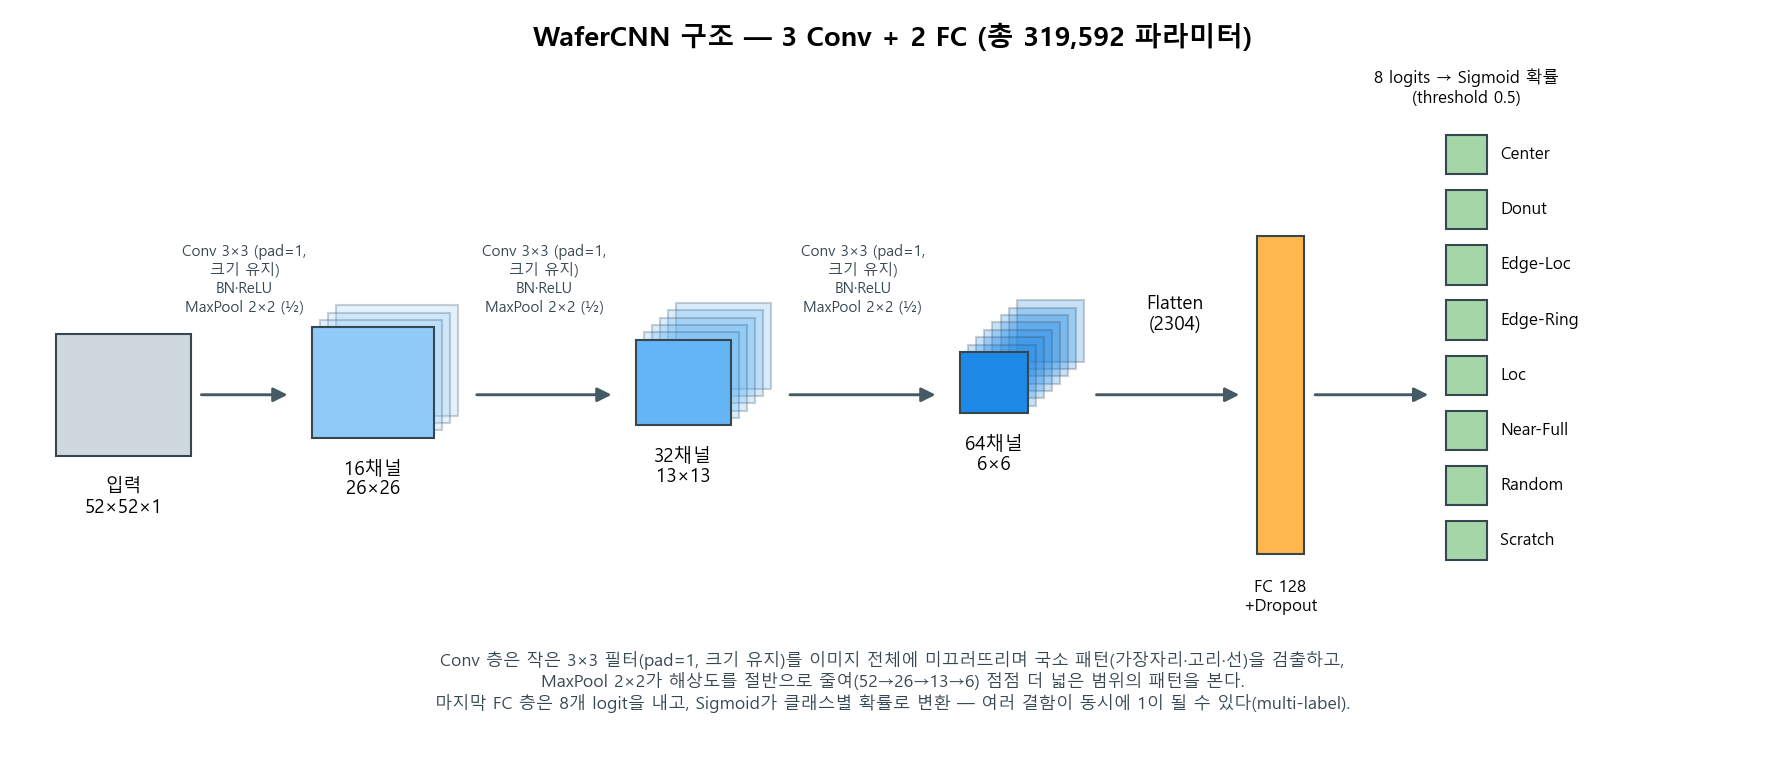
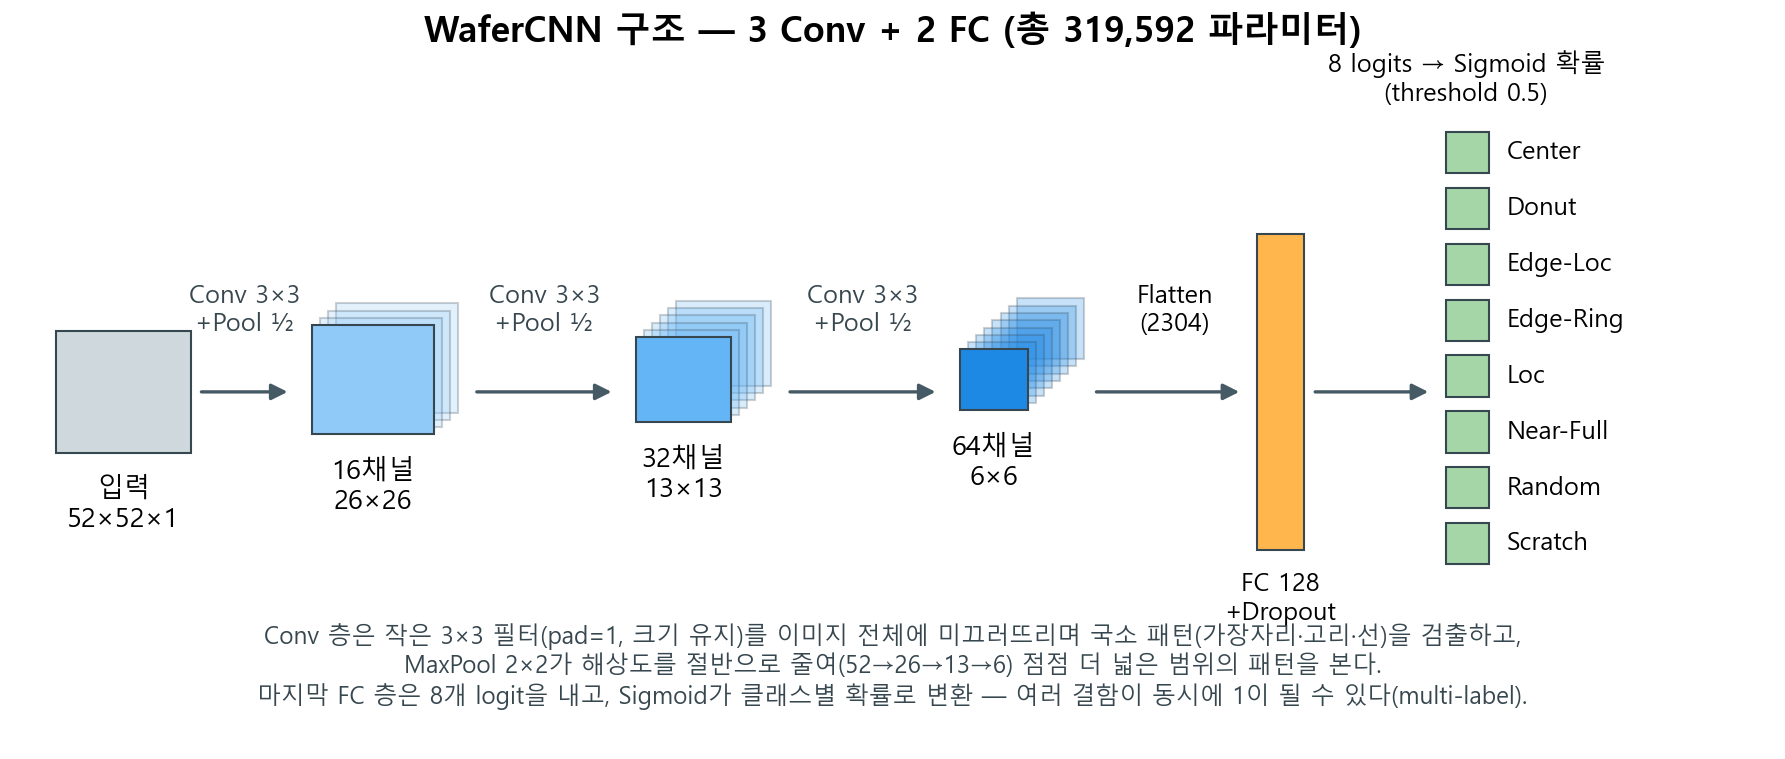
캡스톤 최종 작업본 반영: CNN 구조 그림 가독성 개선 + 졸업논문 최종본 교체
- code/make_explain_figures.py: CNN 아키텍처 그림 글자/화살표 크기 확대, 라벨 간소화
- figures/cnn_architecture.png, pipeline_overview.png: 위 변경으로 재생성
- 졸업논문: 최종 제출본(원본.hwpx, PDF)으로 교체
- 이어서_작업_졸업논문_양식.md: 작업 노트 갱신

diff --git a/code/make_explain_figures.py b/code/make_explain_figures.py
@@ -117,7 +117,7 @@ def _block(ax, x, y, w, h, depth_n, color, label):
         a = 1.0 if k == 0 else 0.25
         ax.add_patch(Rectangle((x + k * off, y + k * off), w, h,
                                facecolor=c, edgecolor="#37474f", lw=1.0, alpha=a, zorder=10 - k))
-    ax.text(x + w / 2, y - 0.18, label, ha="center", va="top", fontsize=9)
+    ax.text(x + w / 2, y - 0.20, label, ha="center", va="top", fontsize=13)
 
 
 def fig_cnn_architecture():
@@ -137,42 +137,43 @@ def fig_cnn_architecture():
         y = 3 - sz / 2
         _block(ax, x, y, sz, sz, dep, col, lab)
         arr = FancyArrowPatch((prev_x + 0.05, 2.9), (x - 0.15, 2.9),
-                              arrowstyle="-|>", mutation_scale=14, color="#455a64", lw=1.4)
+                              arrowstyle="-|>", mutation_scale=16, color="#455a64", lw=1.6)
         ax.add_patch(arr)
-        ax.text((prev_x + x) / 2 - 0.05, 3.55,
-                "Conv 3×3 (pad=1,\n크기 유지)\nBN·ReLU\nMaxPool 2×2 (½)", ha="center",
-                va="bottom", fontsize=7.2, color="#37474f")
+        # 반복되는 Conv 동작은 화살표마다 짧게만 표기(상세는 하단 캡션)
+        ax.text((prev_x + x) / 2 - 0.05, 3.35,
+                "Conv 3×3\n+Pool ½", ha="center",
+                va="bottom", fontsize=12, color="#37474f")
         prev_x = x + sz + dep * 0.06
 
     # FC 부분
     fcx = 9.2
     arr = FancyArrowPatch((prev_x, 2.9), (fcx - 0.1, 2.9), arrowstyle="-|>",
-                          mutation_scale=14, color="#455a64", lw=1.4)
+                          mutation_scale=16, color="#455a64", lw=1.6)
     ax.add_patch(arr)
-    ax.text((prev_x + fcx) / 2, 3.4, "Flatten\n(2304)", ha="center", va="bottom", fontsize=9)
+    ax.text((prev_x + fcx) / 2, 3.35, "Flatten\n(2304)", ha="center", va="bottom", fontsize=12)
     # FC128
     ax.add_patch(Rectangle((fcx, 1.6), 0.35, 2.6, facecolor="#ffb74d", edgecolor="#37474f"))
-    ax.text(fcx + 0.17, 1.4, "FC 128\n+Dropout", ha="center", va="top", fontsize=8)
+    ax.text(fcx + 0.17, 1.42, "FC 128\n+Dropout", ha="center", va="top", fontsize=12)
     # FC8 (출력)
     out_x = 10.6
     arr = FancyArrowPatch((fcx + 0.4, 2.9), (out_x - 0.1, 2.9), arrowstyle="-|>",
-                          mutation_scale=14, color="#455a64", lw=1.4)
+                          mutation_scale=16, color="#455a64", lw=1.6)
     ax.add_patch(arr)
     labels = CLASSES
     for j, cl in enumerate(labels):
-        yy = 4.7 - j * 0.45
-        ax.add_patch(Rectangle((out_x, yy), 0.3, 0.32, facecolor="#a5d6a7", edgecolor="#37474f"))
-        ax.text(out_x + 0.4, yy + 0.16, cl, ha="left", va="center", fontsize=8)
-    ax.text(out_x + 0.15, 5.25, "8 logits → Sigmoid 확률\n(threshold 0.5)", ha="center", va="bottom", fontsize=8)
+        yy = 4.7 - j * 0.46
+        ax.add_patch(Rectangle((out_x, yy), 0.32, 0.34, facecolor="#a5d6a7", edgecolor="#37474f"))
+        ax.text(out_x + 0.45, yy + 0.17, cl, ha="left", va="center", fontsize=12)
+    ax.text(out_x + 0.15, 5.25, "8 logits → Sigmoid 확률\n(threshold 0.5)", ha="center", va="bottom", fontsize=12)
 
-    ax.text(6.5, 5.75, "WaferCNN 구조 — 3 Conv + 2 FC (총 319,592 파라미터)",
-            ha="center", fontsize=13, weight="bold")
+    ax.text(6.5, 5.78, "WaferCNN 구조 — 3 Conv + 2 FC (총 319,592 파라미터)",
+            ha="center", fontsize=17, weight="bold")
     # conv 개념 캡션
-    ax.text(6.5, 0.30,
+    ax.text(6.5, 0.28,
             "Conv 층은 작은 3×3 필터(pad=1, 크기 유지)를 이미지 전체에 미끄러뜨리며 국소 패턴(가장자리·고리·선)을 검출하고,\n"
             "MaxPool 2×2가 해상도를 절반으로 줄여(52→26→13→6) 점점 더 넓은 범위의 패턴을 본다.\n"
             "마지막 FC 층은 8개 logit을 내고, Sigmoid가 클래스별 확률로 변환 — 여러 결함이 동시에 1이 될 수 있다(multi-label).",
-            ha="center", va="bottom", fontsize=8.3, color="#37474f")
+            ha="center", va="bottom", fontsize=11.5, color="#37474f")
     fig.tight_layout()
     out = os.path.join(FIG, "cnn_architecture.png")
     fig.savefig(out, dpi=150, bbox_inches="tight")
@@ -194,28 +195,28 @@ def fig_pipeline():
         (7.1, "④ 멤리스터 크로스바\n4종 소재 + 양자화\n+ 비이상성(노이즈·고착)", "#ffe0b2"),
         (9.4, "⑤ PIM 추론 평가\n(추론만 하드웨어)\nIdeal vs Realistic", "#c8e6c9"),
     ]
-    w, h, y = 2.0, 2.2, 1.3
+    w, h, y = 2.0, 2.2, 1.45
     centers = []
     for x, txt, col in boxes:
         ax.add_patch(FancyBboxPatch((x, y), w, h, boxstyle="round,pad=0.04,rounding_size=0.12",
                                     facecolor=col, edgecolor="#37474f", lw=1.2))
-        ax.text(x + w / 2, y + h / 2, txt, ha="center", va="center", fontsize=9.2)
+        ax.text(x + w / 2, y + h / 2, txt, ha="center", va="center", fontsize=12.5)
         centers.append(x + w)
     for i in range(len(boxes) - 1):
         x0 = boxes[i][0] + w
         x1 = boxes[i + 1][0]
         arr = FancyArrowPatch((x0 - 0.02, y + h / 2), (x1 + 0.02, y + h / 2),
-                              arrowstyle="-|>", mutation_scale=18, color="#455a64", lw=1.6)
+                              arrowstyle="-|>", mutation_scale=20, color="#455a64", lw=1.8)
         ax.add_patch(arr)
-    ax.text(6.0, 4.15, "연구 전체 흐름: 웨이퍼 결함 분류 CNN을 멤리스터 PIM 하드웨어로 옮길 때 소재별 성능 비교",
-            ha="center", fontsize=12, weight="bold")
-    ax.text(6.0, 0.72,
+    ax.text(6.0, 4.30, "연구 전체 흐름: 웨이퍼 결함 분류 CNN을 멤리스터 PIM 하드웨어로 옮길 때 소재별 성능 비교",
+            ha="center", fontsize=15, weight="bold")
+    ax.text(6.0, 0.78,
             "학습은 소프트웨어(FP32)에서 수행하고, 학습된 가중치를 멤리스터로 매핑해 추론 단계만 PIM 환경에서 평가한다.",
-            ha="center", va="center", fontsize=8.5, color="#546e7a")
-    ax.text(6.0, 0.38,
-            "핵심 질문: 4종 멤리스터 소재(Pt/HfOx/Ti, Ferroelectric, Metallic Nanowire, TaOx/Ta) 중 "
+            ha="center", va="center", fontsize=12, color="#546e7a")
+    ax.text(6.0, 0.34,
+            "핵심 질문: 4종 멤리스터 소재(Pt/HfOx/Ti, Ferroelectric, Metallic Nanowire, TaOx/Ta) 중\n"
             "어떤 것이 PIM 환경에서 분류 성능을 가장 잘 보존하는가?",
-            ha="center", va="center", fontsize=8.8, color="#37474f")
+            ha="center", va="center", fontsize=12.5, color="#37474f")
     fig.tight_layout()
     out = os.path.join(FIG, "pipeline_overview.png")
     fig.savefig(out, dpi=150, bbox_inches="tight")

diff --git a/이어서_작업_졸업논문_양식.md b/이어서_작업_졸업논문_양식.md
@@ -1,21 +1,37 @@
 # 졸업논문 양식 작업 — 이어서 하기 (핸드오프)
 
-> 다음 세션에서 이 파일을 통째로 주면 바로 이어서 작업 가능. (2026-05-21 기준)
+> 다음 세션에서 이 파일을 통째로 주면 바로 이어서 작업 가능. (2026-05-22 갱신)
 
 ## 0. 한 줄 요약
-캡스톤 논문(멤리스터 PIM 웨이퍼 결함 분류)을 **상명대 시스템반도체공학과 졸업논문 양식(B5)**에 맞춰 완성. **제출 가능 상태** (Codex+Gemini 둘 다 합격, 양식 준수 우수, 완성도 A−~A+).
+캡스톤 논문(멤리스터 PIM 웨이퍼 결함 분류)을 **상명대 시스템반도체공학과 졸업논문 양식(B5)**에 맞춰 완성. **제출 가능 상태** (Codex+Gemini 둘 다 합격, 양식 준수 우수, 완성도 A−~A+). 2026-05-22 교수님 피드백(그림 글자 작음) 반영 + 레이아웃 정리 완료, **19p**.
 
-## 1. ⭐ 최종 제출 파일
+## ★ 2026-05-22 작업 (그림 확대 + 레이아웃 수정) — 최신
+교수님 피드백 "그림2·3 글자가 작아 안 보임"에서 출발해 다음을 처리. **본문 텍스트·표 내용·수치·결론은 일절 변경 없음**(레이아웃/그림 표시만).
+1. **그림 글자 확대** — `code/make_explain_figures.py` 수정 후 그림2(`cnn_architecture.png`)·그림3(`pipeline_overview.png`) 재생성.
+   - 그림2: 화살표마다 3번 반복되던 4줄 작은 Conv 캡션 → `Conv 3×3 +Pool ½`로 간략화(상세는 표1·하단 설명문에 보존), 제목 13→17pt, 라벨·설명 8→12pt.
+   - 그림3: 박스 글자 9.2→12.5pt, 제목 12→15pt, 설명 8.5→12pt(긴 핵심질문 2줄).
+   - ⚠️ 그림2 종횡비는 옛 임베드(1785×765, 2.333)에 맞춰 figsize 5.2 유지(왜곡 방지). 그림3은 1785×674 동일.
+2. **hwpx에 그림 교체** — hwpx는 zip. `BinData/image2.png`(그림2)·`image3.png`(그림3)를 새 PNG로 교체. **mimetype은 첫 항목·Stored 유지, BinData PNG도 Stored(무압축)**. Python `zipfile`로 항목별 `compress_type` 보존하며 재패키징(`zip` 명령 없음).
+3. **문서 내 그림 크기 확대** — `Contents/section1.xml`의 `<hp:pic binaryItemIDRef="image2/image3">` 디스플레이 박스 확대. 폭 28346→**36663 HU(=129.3mm, 텍스트폭 132mm의 92%)**, 두 그림 동일 폭. 수정 태그: `hp:sz`, `hp:orgSz`, `hp:rotationInfo`(centerX/Y=폭/2,높이/2), `hp:imgRect`(pt1.x,pt2.x/y,pt3.y). **건드리면 안 되는 것: `hp:imgClip`/`hp:imgDim`(원본이미지 native 좌표 133860×57360)**. 1mm=283.465 HWPUNIT.
+4. **레이아웃 수정 3건** (그림 확대로 본문 밀리며 생긴 문제):
+   - 표2(소재 파라미터) 페이지 경계서 잘림 → 표2 `<hp:tbl>` `pageBreak="CELL"→"NONE"`(나누지 않음)으로 통째 이동.
+   - 4.4절 큰 공백(445pt) → 표6 직전 문단(section1.xml)에 박힌 `<hp:p ... pageBreak="1">`(강제 쪽나눔) → `"0"`으로 해제. 표6이 도입문 뒤로 올라옴.
+   - 제목이 페이지 끝에 외톨이로 걸림(1.2 소제목, 4.결과 장제목) → `Contents/header.xml`의 paraPr **41(장제목)·42(소제목 19개 공유)** `<hh:breakSetting keepWithNext="0"→"1">`. 전 제목 일괄 적용이라 앞으로 고아 제목 안 생김.
+5. **검증 패턴** — 한글 COM `SaveAs(pdf,"PDF")` 렌더 후 PyMuPDF(fitz)로 페이지별 텍스트블록 세로간격 스캔(중간/하단 공백·고아제목 탐지). ⚠️ 그림은 텍스트블록으로 안 잡혀 "상단/중간 공백"으로 오탐 → 그림 위치는 육안 확인. 푸터 페이지번호(y~692)가 하단 블록으로 잡혀 bot 측정 왜곡 주의.
+
+## 1. ⭐ 최종 제출 파일 (2026-05-22 폴더 재정리 후)
+모두 `C:\Users\ds3owl\Desktop\memristor_pim_capstone\졸업논문\` 안에 있음:
 ```
-C:\Users\ds3owl\Desktop\memristor_pim_capstone\임창우_졸업논문_사진포함_양식.hwpx
+임창우_졸업논문_원본.hwpx          ← 최종 제출본 (그림 확대+레이아웃 수정 반영, 19p)
+임창우_졸업논문_PDF.pdf            ← 최신 PDF (위 hwpx에서 재생성, 제출/공유용)
+임창우_졸업논문_글자확대전_백업.hwpx  ← 모든 05-22 수정 전 백업 (되돌릴 때만)
 ```
 - B5 양식 + front matter(표지/속표지/인준서/차례[페이지번호+점선]/국문요약) + 본문 11pt + 그림 3 + 표 6
-- 미리보기: `임창우_졸업논문_양식_미리보기.pdf` (한글 렌더, 실제 제출 모습)
 - **총 19p** (front 4p + 본문 ~13p + 참고문헌)
 
-### 헷갈리지 말 것 (사용 X)
-- `임창우_졸업논문_사진포함.hwpx`, `_사진제외.hwpx` → 옛 HTML직접변환본(27p, 폐기)
-- `임창우_졸업논문_백업_*.hwpx` 5개 → 단계별 백업 (되돌릴 때만): 사용자수정본 / 제목수정전 / 표수정전 / 캡션수정전 / 캡션한글화전
+### ⚠️ 절대 주의 (재확인)
+- 사용자가 한글에서 hwpx를 직접 손봤음(제목 16/14pt, 영문제목, 인준서 ㊞, 11pt 등) → **build_docx.py로 재생성 금지(사용자 수정 날아감)**. 변경은 반드시 그 hwpx에 직접(한글 COM 또는 zip/XML 수술).
+- 그림은 사용자가 한글에서 크기를 추가로 손봤을 수 있음(05-22에 그림2 폭을 사용자가 36663까지 키운 뒤 그림3을 거기 맞춤). hwpx 직접 수정이 정답.
 
 ## 2. 제작 파이프라인 (중요 — 재생성 시)
 HTML→hwpx 직접변환은 줄간격 폭증으로 27p 실패함. 그래서 **정밀 DOCX 경로**를 씀:
@@ -67,3 +83,6 @@ $hwp.Quit()
 
 ## 8. 그림 재생성
 `code/make_explain_figures.py` (defect 8종/CNN 구조도/파이프라인), `figures/*.png`. 데이터: `~/Downloads/Wafer_Map_Datasets.npz`(MixedWM38).
+- **2026-05-22 폰트 확대 반영됨** (위 ★ 섹션 참조). 그림2·3만 재생성: `cd code && python -c "import make_explain_figures as m; m.fig_cnn_architecture(); m.fig_pipeline()"` (defect 그림은 npz 필요).
+- 재생성하면 `figures/cnn_architecture.png`·`pipeline_overview.png`가 갱신될 뿐, hwpx에는 자동 반영 안 됨 → **위 ★2번(BinData 교체)** 다시 해야 함.
+- ⚠️ figsize 바꾸면 종횡비 달라져 hwpx 임베드 박스에서 왜곡됨. 그림2=figsize(12,5.2)→1785×759, 그림3=figsize(12,4.6)→1785×674 유지할 것.